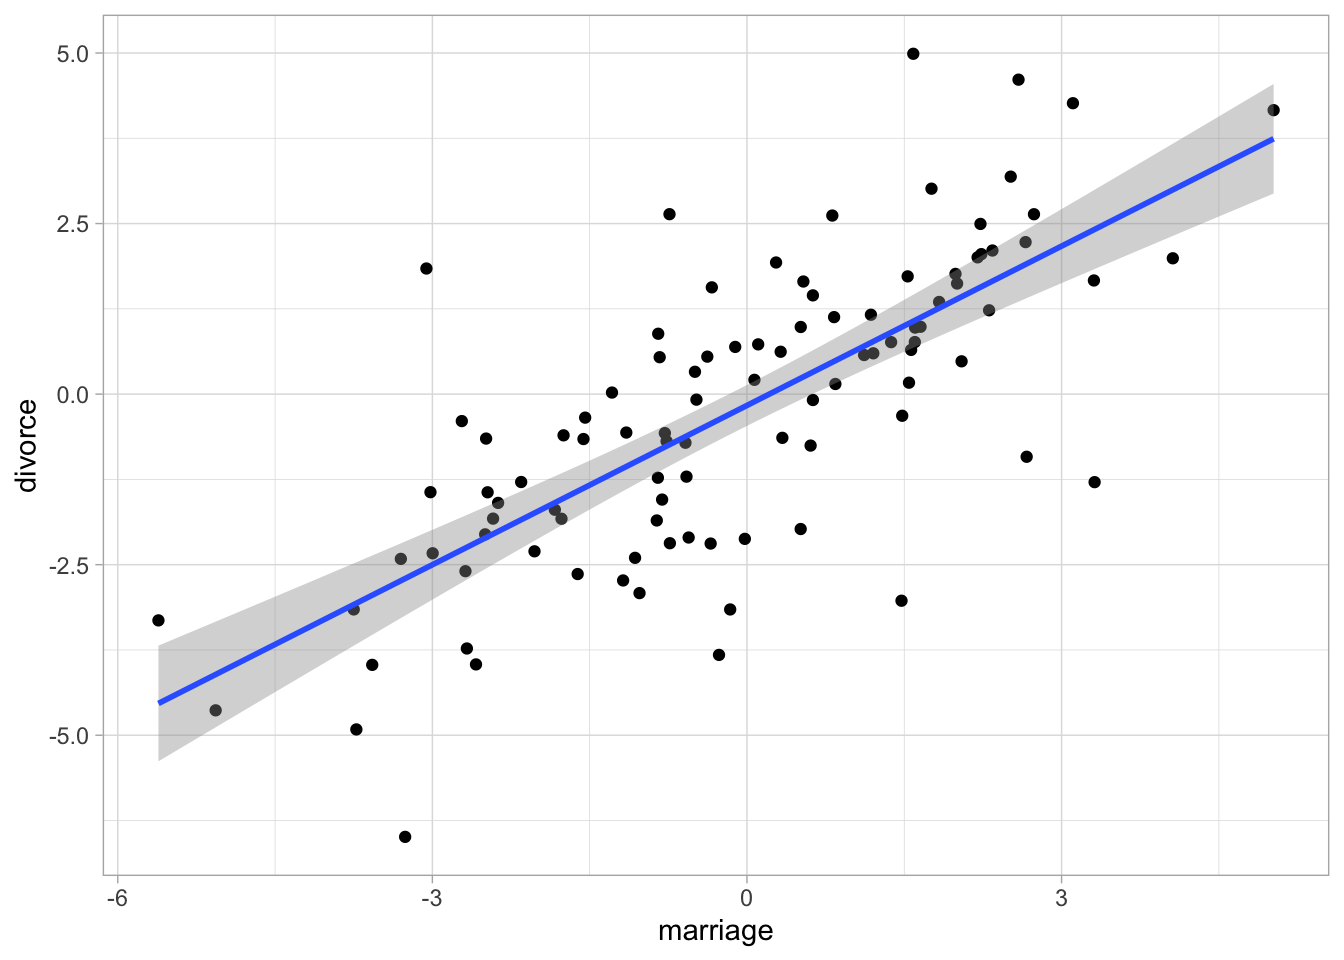
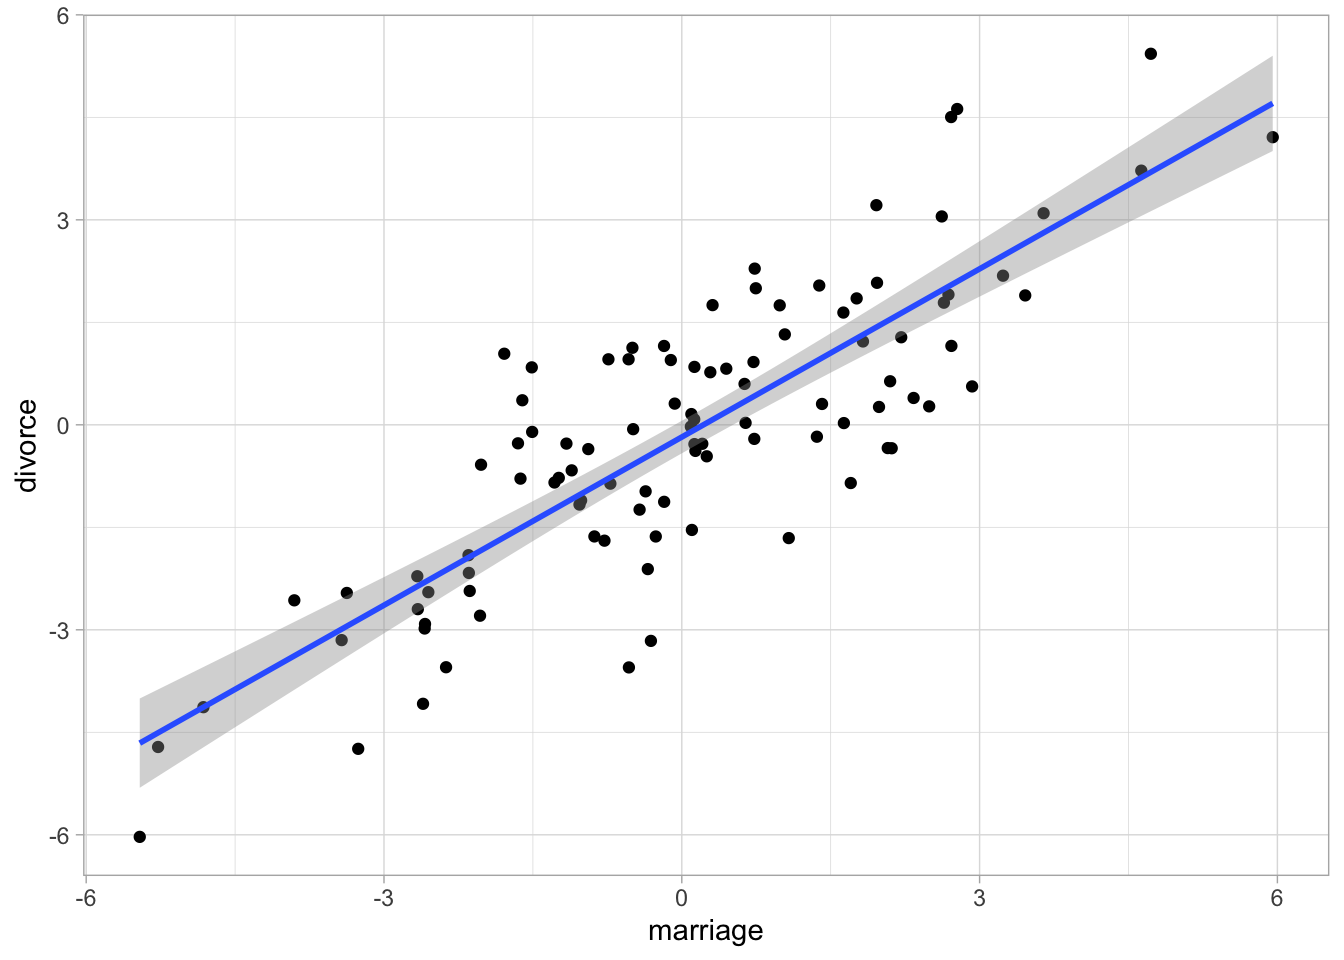
updated confounds page

diff --git a/content/class/confounds.html b/content/class/confounds.html
@@ -21,6 +21,12 @@ editor_options:
 <ul>
 <li><a href="#the-experimental-gold-standard">The experimental gold standard</a></li>
 <li><a href="#marriage-divorce-age-and-confounding">Marriage, divorce, age, and confounding</a></li>
+<li><a href="#elemental-confounds">Elemental confounds</a>
+<ul>
+<li><a href="#forks">forks</a></li>
+<li><a href="#pipes">pipes</a></li>
+<li><a href="#collider">collider</a></li>
+</ul></li>
 </ul>
 </div>
 
@@ -40,16 +46,16 @@ rats</code></pre>
 <pre><code>## # A tibble: 200 x 3
 ##    rat_id vaccine covid_levels
 ##     &lt;int&gt;   &lt;dbl&gt;        &lt;dbl&gt;
-##  1      1       1      -3.07  
-##  2      2       1      -3.19  
-##  3      3       1      -2.57  
-##  4      4       0      -0.534 
-##  5      5       1      -2.95  
-##  6      6       1      -0.922 
-##  7      7       1      -2.32  
-##  8      8       0       0.314 
-##  9      9       0      -0.0918
-## 10     10       1      -1.84  
+##  1      1       1       -1.65 
+##  2      2       0        0.830
+##  3      3       1       -1.91 
+##  4      4       1       -1.92 
+##  5      5       1       -2.53 
+##  6      6       1       -2.79 
+##  7      7       1       -2.46 
+##  8      8       0       -0.738
+##  9      9       1       -2.25 
+## 10     10       1       -0.671
 ## # … with 190 more rows</code></pre>
 <p>Note that in making up our data, we decided that the vaccine would have an effect of -2 on covid_levels.</p>
 <p>We can estimate the effect of the vaccine on COVID using regression:</p>
@@ -59,8 +65,8 @@ tidy(m1)</code></pre>
 <pre><code>## # A tibble: 2 x 5
 ##   term        estimate std.error statistic  p.value
 ##   &lt;chr&gt;          &lt;dbl&gt;     &lt;dbl&gt;     &lt;dbl&gt;    &lt;dbl&gt;
-## 1 (Intercept)  0.00709    0.0888    0.0798 9.36e- 1
-## 2 vaccine     -2.05       0.128   -16.1    9.84e-38</code></pre>
+## 1 (Intercept) -0.00180    0.0856   -0.0210 9.83e- 1
+## 2 vaccine     -2.04       0.122   -16.8    6.72e-40</code></pre>
 </div>
 <div id="marriage-divorce-age-and-confounding" class="section level2">
 <h2>Marriage, divorce, age, and confounding</h2>
@@ -83,4 +89,47 @@ ggplot(fake, aes(x = marriage, y = divorce)) +
   theme_light()</code></pre>
 <p><img src="/class/confounds_files/figure-html/unnamed-chunk-4-1.png" width="672" /></p>
 <p>Note the line of code defining the divorce rate: no marriage there!</p>
+</div>
+<div id="elemental-confounds" class="section level2">
+<h2>Elemental confounds</h2>
+<div id="forks" class="section level3">
+<h3>forks</h3>
+<p>Remember, the fork looks like this:</p>
+<pre class="r"><code>confounder_triangle(x = &quot;Has Huge beard&quot;, 
+                    y = &quot;Amount of basketball watched&quot;,
+                    z = &quot;Love James Harden&quot;) %&gt;% 
+  ggdag(use_labels = &quot;label&quot;) +
+  theme_dag()</code></pre>
+<p><img src="/class/confounds_files/figure-html/unnamed-chunk-5-1.png" width="672" /></p>
+<p>Or like this:</p>
+<pre class="r"><code>confounder_triangle(x = &quot;Marriage rate&quot;, 
+                    y = &quot;Divorce rate&quot;,
+                    z = &quot;Median age at marriage&quot;, x_y_associated = TRUE) %&gt;% 
+  ggdag(use_labels = &quot;label&quot;) +
+  theme_dag()</code></pre>
+<p><img src="/class/confounds_files/figure-html/unnamed-chunk-6-1.png" width="672" /></p>
+</div>
+<div id="pipes" class="section level3">
+<h3>pipes</h3>
+<p>The pipe looks like this:</p>
+<pre class="r"><code>dagify(Y ~ B + G, 
+       B ~ X, 
+       labels = c(&quot;Y&quot; = &quot;Plant growth&quot;, 
+                  &quot;B&quot; = &quot;Good bacteria&quot;, 
+                  &quot;G&quot; = &quot;Starting size&quot;, 
+                  &quot;X&quot; = &quot;Fertilizer&quot;)) %&gt;% 
+  ggdag(use_labels = &quot;label&quot;) + 
+  theme_dag_blank()</code></pre>
+<p><img src="/class/confounds_files/figure-html/unnamed-chunk-7-1.png" width="672" /></p>
+</div>
+<div id="collider" class="section level3">
+<h3>collider</h3>
+<p>The collider looks like this:</p>
+<pre class="r"><code>collider_triangle(x = &quot;Qualtiy research&quot;, 
+                  y = &quot;Surprising results&quot;, 
+                  m = &quot;Published&quot;) %&gt;% 
+  ggdag(use_labels = &quot;label&quot;) + 
+  theme_dag_blank()</code></pre>
+<p><img src="/class/confounds_files/figure-html/unnamed-chunk-8-1.png" width="672" /></p>
+</div>
 </div>
